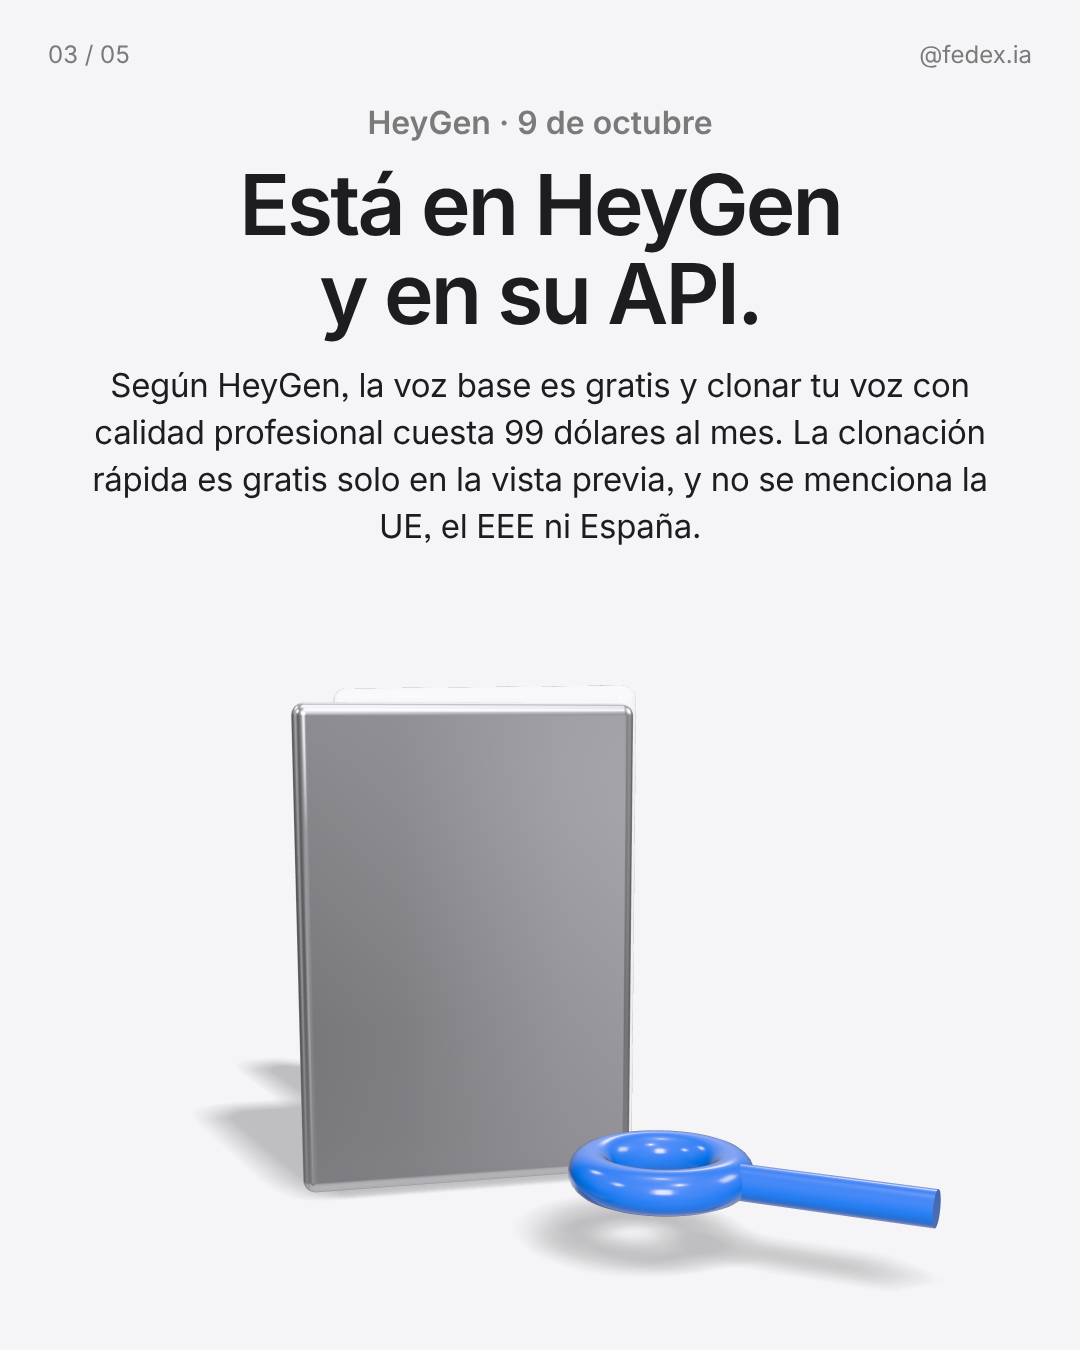
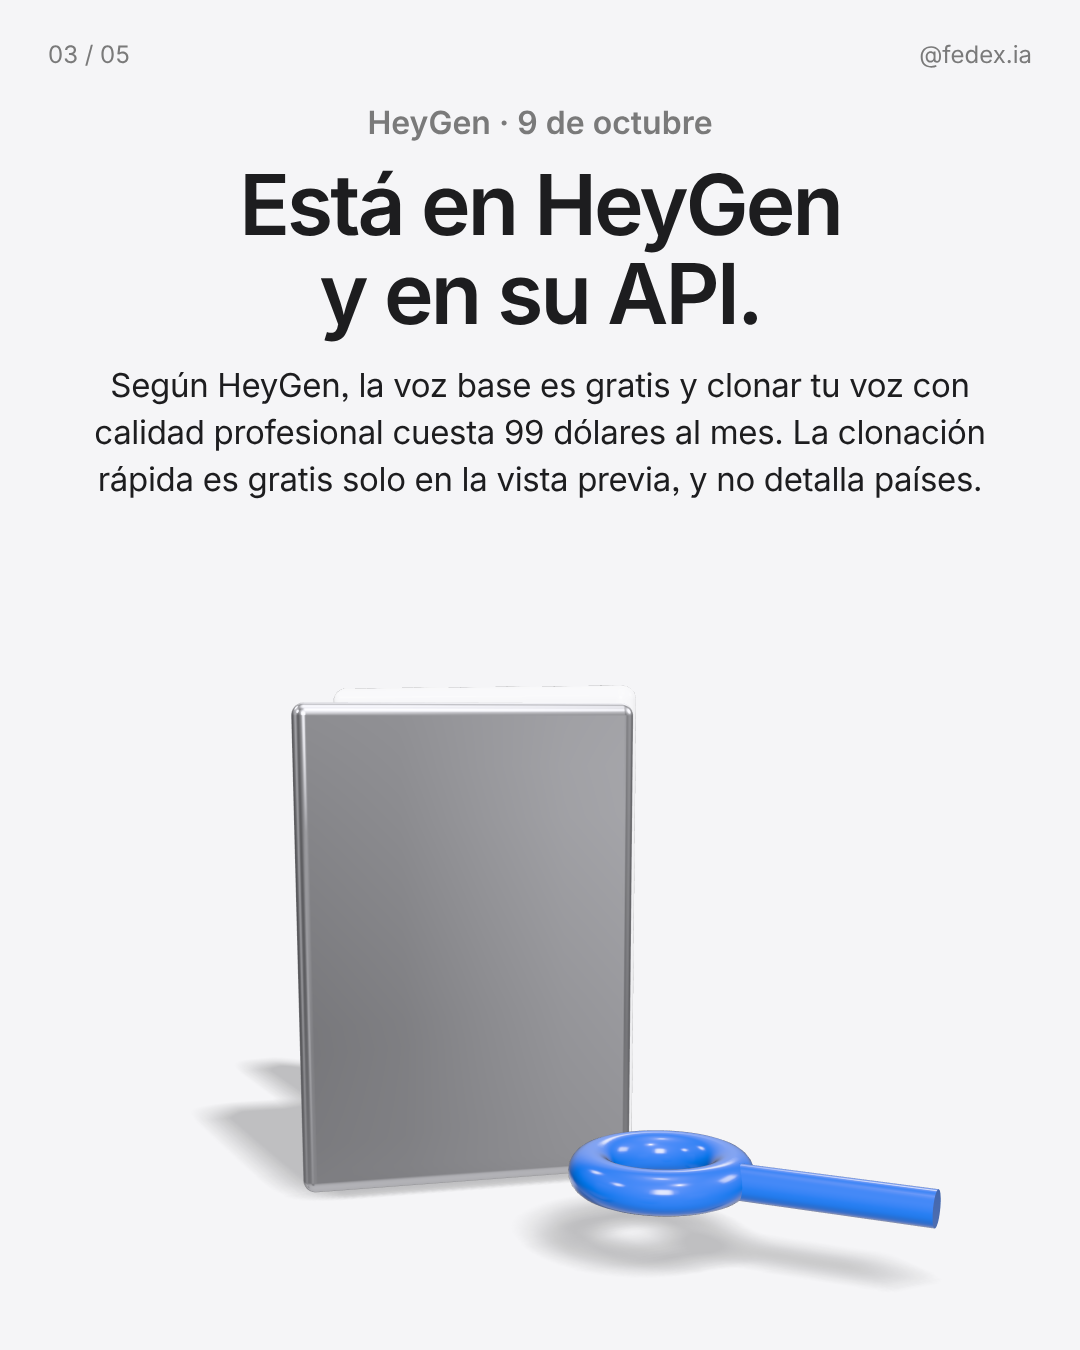
Borrador 2026-10-10: sacar mención a UE, EEE y España
Claude-Session: https://claude.ai/code/session_012HiWGqfjQsa8ikauxHYQau

Changed region(s): [[0.0917, 0.3422, 0.9167, 0.4044]]

diff --git a/diario/2026-10-10-diario-heygen-voice-ranking/copy.md b/diario/2026-10-10-diario-heygen-voice-ranking/copy.md
@@ -6,7 +6,7 @@ Estado: pendiente de aprobación
 - Hecho: HeyGen anunció HeyGen Voice, su modelo de voz propio, el 9 de octubre de 2026 (ayer; hoy es sábado 10).
 - Qué es: aprende la voz de una persona y lee un texto con ella; modos Instant y Professional (documentación de HeyGen).
 - Ranking: según Artificial Analysis (arena Controlled Voice, 8 voces clonadas, 4 de EE. UU. y 4 del Reino Unido, en inglés), HeyGen Voice empata en el puesto 1-2 con Qwen-Audio-3.1-TTS-Plus (Elo 1201 frente a 1187).
-- Disponibilidad: según HeyGen, la voz base es gratis en su plataforma y su API; Professional Voice Clone cuesta 99 dólares al mes, se entrena con 30 minutos a 3 horas de voz del dueño y con su consentimiento explícito. La documentación dice que la clonación rápida (Instant) es gratis solo durante la vista previa. Idiomas, países y planes: no se detallan. No menciona la UE, el EEE ni España.
+- Disponibilidad: según HeyGen, la voz base es gratis en su plataforma y su API; Professional Voice Clone cuesta 99 dólares al mes, se entrena con 30 minutos a 3 horas de voz del dueño y con su consentimiento explícito. La documentación dice que la clonación rápida (Instant) es gratis solo durante la vista previa. Idiomas, países y planes: no se detallan.
 - Oficial: https://www.prnewswire.com/news-releases/heygen-launches-heygen-voice-debuting-at-1-on-artificial-analysis-leaderboard-302903718.html (comunicado de HeyGen) y https://developers.heygen.com/docs/models/heygen-voice (documentación).
 - Prensa / terceros: https://artificialanalysis.ai/text-to-speech/leaderboard/controlled-voice (ranking). No encontré cobertura de un medio grande (Verge, TechCrunch, Reuters); ver Verificación.
 
@@ -23,9 +23,9 @@ Todas con eyebrow «HeyGen · 9 de octubre». Sin línea de fuente en slides 1-4
 2. Qué pasó (oscuro). Titular: «Empata en el primer puesto de un ranking.» Cuerpo: «HeyGen anunció HeyGen Voice, su modelo de voz propio. Según Artificial Analysis, empata en el puesto 1 de su ranking en inglés, con 8 voces clonadas.»
    - Objeto 3D: podio de tres bloques con una esfera azul arriba.
    - Alt: Ilustración 3D de un podio de tres bloques claros con una esfera azul arriba. Texto: según Artificial Analysis, HeyGen Voice empata en el puesto 1 de un ranking en inglés.
-3. Disponibilidad (gris). Titular: «Está en HeyGen y en su API.» Cuerpo: «Según HeyGen, la voz base es gratis y clonar tu voz con calidad profesional cuesta 99 dólares al mes. La clonación rápida es gratis solo en la vista previa, y no se menciona la UE, el EEE ni España.»
+3. Disponibilidad (gris). Titular: «Está en HeyGen y en su API.» Cuerpo: «Según HeyGen, la voz base es gratis y clonar tu voz con calidad profesional cuesta 99 dólares al mes. La clonación rápida es gratis solo en la vista previa, y no detalla países.»
    - Objeto 3D: panel plateado con una llave azul delante.
-   - Alt: Ilustración 3D de un panel plateado con una llave azul delante. Texto: la voz base es gratis; clonar tu voz con calidad profesional cuesta 99 dólares al mes; no se menciona la UE, el EEE ni España.
+   - Alt: Ilustración 3D de un panel plateado con una llave azul delante. Texto: la voz base es gratis; clonar tu voz con calidad profesional cuesta 99 dólares al mes; no detalla países.
 4. Qué significa (oscuro). Titular: «Tu voz podría narrar tus videos.» Cuerpo: «Si creas videos o cursos, puedes generar la narración desde un texto con tu voz clonada. HeyGen exige el consentimiento explícito del dueño de la voz.»
    - Objeto 3D: cubo perla que emite tres anillos plateados, con una esfera azul.
    - Alt: Ilustración 3D de un cubo perla que emite tres anillos plateados con una esfera azul al lado. Texto: tu voz clonada podría narrar tus videos; HeyGen exige consentimiento explícito.
@@ -33,11 +33,11 @@ Todas con eyebrow «HeyGen · 9 de octubre». Sin línea de fuente en slides 1-4
    - Objeto 3D: marcador azul y tarjeta perla (objeto «cierre»).
    - Alt: Ilustración 3D de un marcador azul junto a una tarjeta perla. Texto: ¿Clonarías tu voz para tus videos? Seguí a @fedex.ia y guarda el post.
 
-## Caption para copiar (140 palabras + 5 hashtags)
+## Caption para copiar (131 palabras + 5 hashtags)
 ```text
 HeyGen anunció el 9 de octubre HeyGen Voice, su modelo de voz propio. Aprende la voz de una persona y lee un texto con ella. Según Artificial Analysis, empata en el primer puesto de su ranking Controlled Voice, que compara 8 voces clonadas en inglés.
 
-Según HeyGen, la voz base es gratis en su plataforma y su API, y clonar tu voz con calidad profesional cuesta 99 dólares al mes. Su documentación dice que la clonación rápida es gratis solo durante la vista previa. HeyGen no detalla idiomas ni países, y no menciona la UE, el EEE ni España.
+Según HeyGen, la voz base es gratis en su plataforma y su API, y clonar tu voz con calidad profesional cuesta 99 dólares al mes. Su documentación dice que la clonación rápida es gratis solo durante la vista previa. HeyGen no detalla idiomas ni países.
 
 Si creas videos o cursos, podrías generar la narración desde un texto con tu voz. La empresa exige el consentimiento explícito del dueño de la voz.
 
@@ -74,7 +74,7 @@ Fuentes: Anuncio oficial de HeyGen: prnewswire.com/news-releases/heygen-launches
 | Puesto 1-2, Elo 1201 vs 1187, 8 voces, inglés EE. UU. y Reino Unido | Página del ranking Controlled Voice de Artificial Analysis |
 | Voz base gratis en plataforma y API; Professional Voice Clone 99 dólares al mes; 30 min a 3 h; consentimiento explícito | Comunicado de HeyGen |
 | Clonación rápida gratis solo durante la vista previa | Documentación de HeyGen |
-| Sin idiomas, países ni UE/EEE/España | No figuran en el comunicado ni en la documentación |
+| Sin idiomas ni países | No figuran en el comunicado ni en la documentación |
 
 Dejado afuera y por qué:
 - «Primer puesto» a secas: en la página del ranking es un empate 1-2 con Qwen-Audio-3.1-TTS-Plus.
